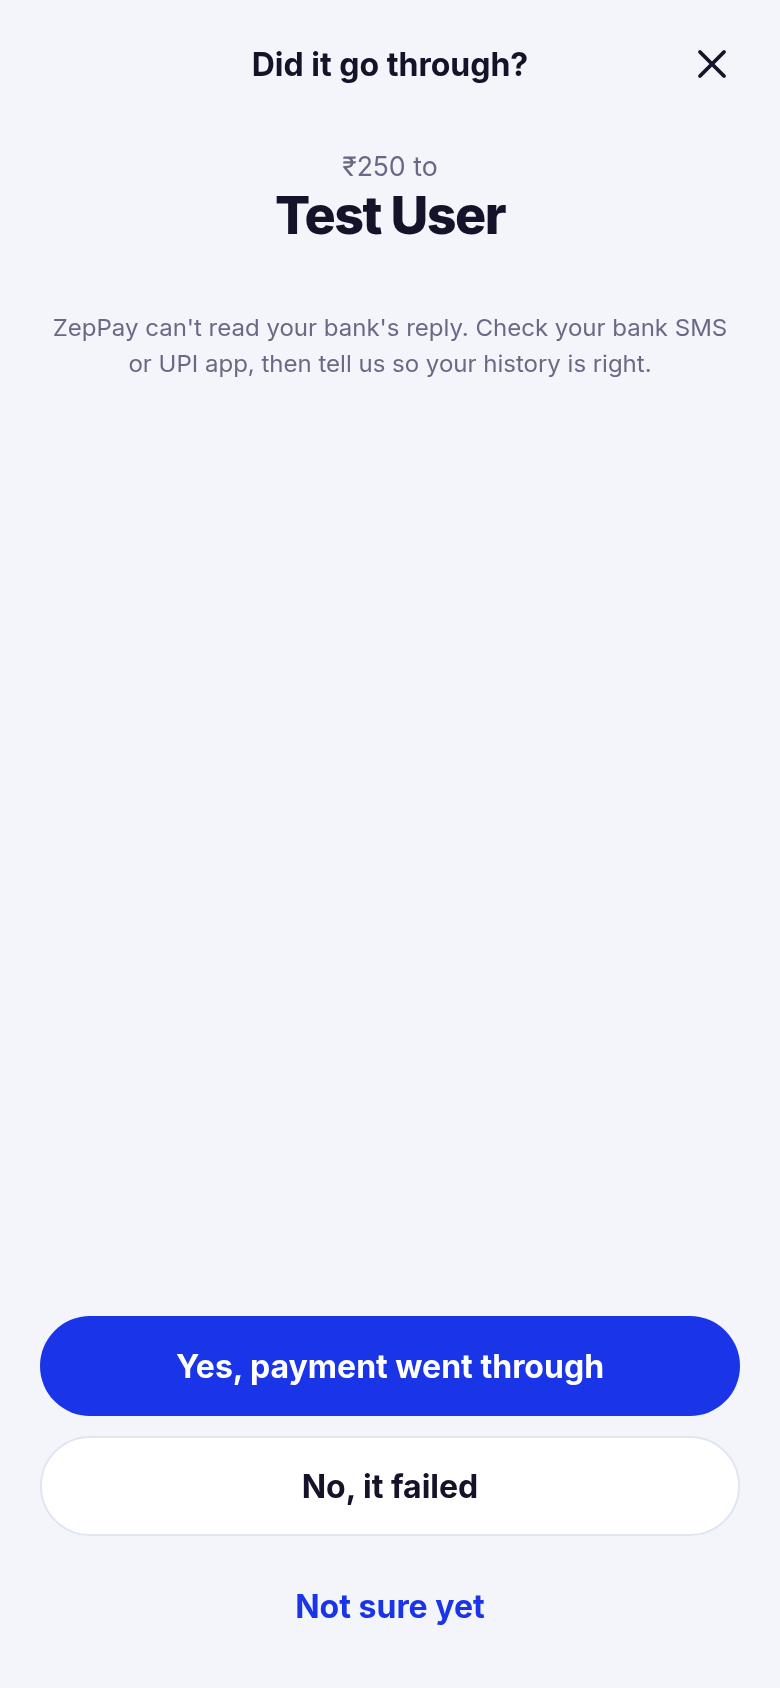
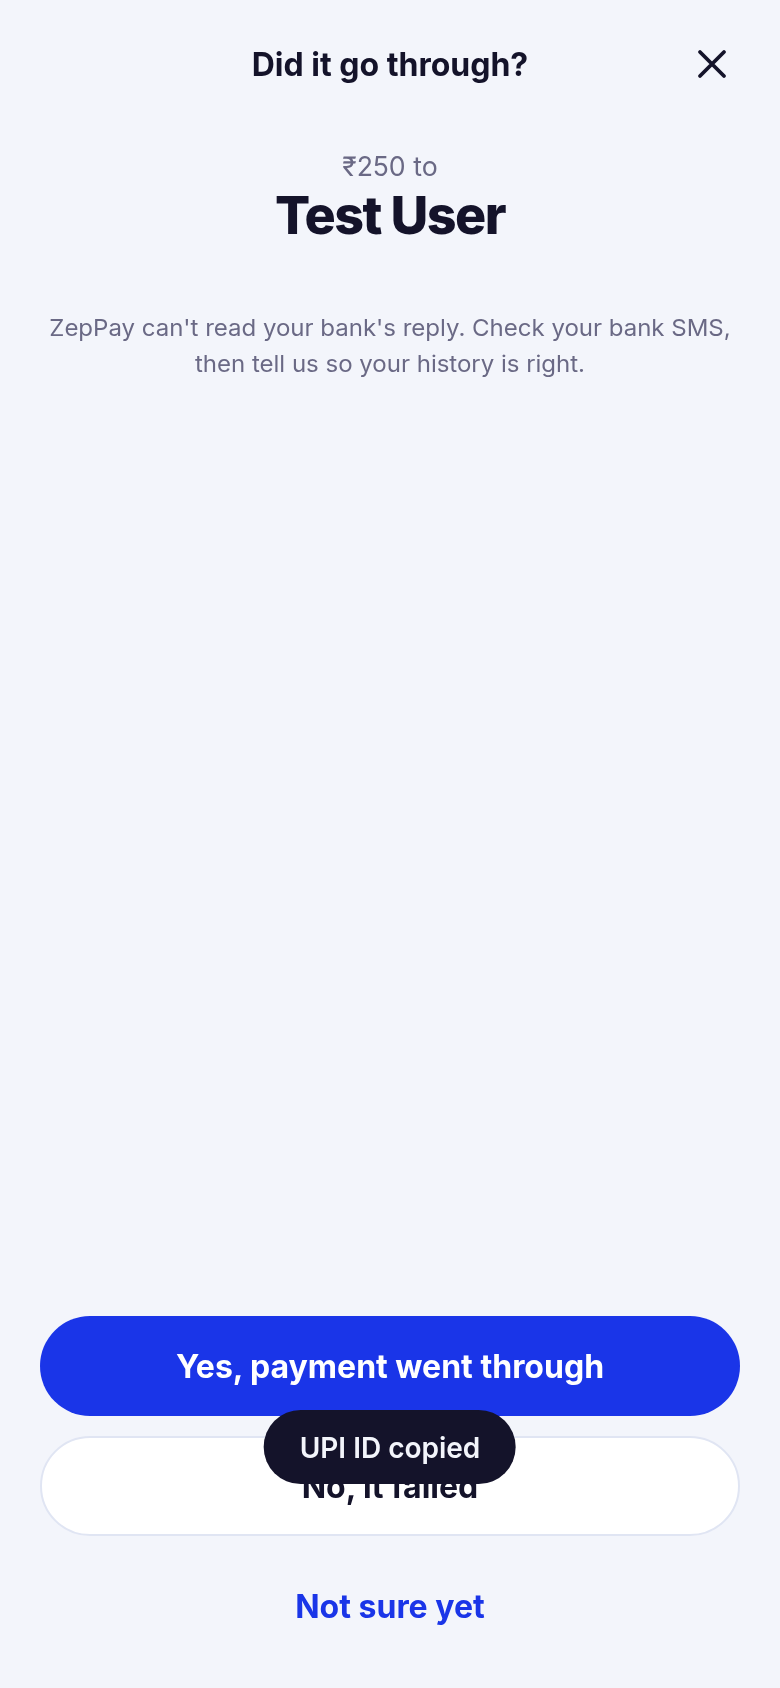
Payments only over *99#

Changed region(s): [[0.0615, 0.1848, 0.9231, 0.2464], [0.3385, 0.8318, 0.6769, 0.8934]]

diff --git a/zeppay-pwa/src/App.jsx b/zeppay-pwa/src/App.jsx
@@ -4,7 +4,7 @@ import * as Ic from './Icons.jsx';
 import logo from './assets/logo.png';
 import { usePersisted } from './store.js';
 import {
-  parseUpi, validateAmount, formatINR, telHref, CARRIERS, carrierSupported, newId, upiLink, initials,
+  parseUpi, validateAmount, formatINR, telHref, CARRIERS, carrierSupported, newId, initials,
   groupByDay, navigate, isValidVpa, isValidMobile, normMobile, USSD_SEND, USSD_MOBILE, USSD_BALANCE, USSD_MENU, MAX_AMOUNT,
 } from './lib.js';
 
@@ -65,7 +65,7 @@ export default function App() {
     return () => removeEventListener('beforeinstallprompt', h);
   }, []);
 
-  // When the user comes back from the dialer / UPI app, ask how it went.
+  // When the user comes back from the dialer, ask how it went.
   useEffect(() => {
     const onVis = () => { if (document.visibilityState === 'visible' && pending) setScreen((s) => (s?.name === 'outcome' ? s : { name: 'outcome', tx: pending })); };
     document.addEventListener('visibilitychange', onVis);
@@ -125,8 +125,8 @@ function Onboarding({ onDone }) {
   const [i, setI] = useState(0);
   const slides = [
     { icon: <Ic.WifiOff width={44} height={44} />, t: 'Pay with no internet', d: 'ZepPay lines up UPI payments over *99#, the service built into your SIM. No Wi-Fi, no mobile data.' },
-    { icon: <Ic.Scan width={44} height={44} />, t: 'Scan, check, pay', d: 'Scan any UPI QR or enter a UPI ID or mobile number. Pay offline through *99#, or open your UPI app when you have data.' },
-    { icon: <Ic.Shield width={44} height={44} />, t: 'Your PIN stays with your bank', d: 'ZepPay never sees or stores your UPI PIN. You enter it in the dialer or your UPI app. History stays on this device.' },
+    { icon: <Ic.Scan width={44} height={44} />, t: 'Scan, check, pay', d: 'Scan any UPI QR or enter a UPI ID or mobile number. ZepPay lines up the payment and your bank completes it over *99#.' },
+    { icon: <Ic.Shield width={44} height={44} />, t: 'Your PIN stays with your bank', d: 'ZepPay never sees or stores your UPI PIN. You enter it in the dialer. History stays on this device.' },
     { icon: <Ic.Wallet width={44} height={44} />, t: 'One-time bank link', d: 'To pay over *99#, your SIM must be linked to your bank once.', steps: true },
   ];
   const s = slides[i], last = i === slides.length - 1;
@@ -175,7 +175,7 @@ function HomeTab({ supported, carrier, history, go, online, installEvt, onInstal
         <span className="netic"><Ic.WifiOff width={22} height={22} /></span>
         <div><b>Works with no data</b><small>Offline payments use *99# on your {CARRIERS.find((c) => c.id === carrier)?.name} SIM. Your bank completes them.</small></div>
       </section>
-      {!supported && <div className="warn" role="alert"><Ic.Info width={20} height={20} /><div><b>Jio doesn't support *99#.</b> You can still pay with your UPI app when you have internet.</div></div>}
+      {!supported && <div className="warn" role="alert"><Ic.Info width={20} height={20} /><div><b>Jio doesn't support *99#.</b> Payments in ZepPay need a *99# supported SIM.</div></div>}
 
       {recents.length > 0 && <>
         <h3 className="sec">Pay again</h3>
@@ -220,7 +220,7 @@ function PayTo({ kind: initial, onClose, onNext }) {
         <input className="field" autoFocus aria-label={kind === 'upi' ? 'UPI ID' : 'Mobile number'} placeholder={kind === 'upi' ? 'name@bank' : '10-digit mobile number'} inputMode={kind === 'upi' ? 'email' : 'numeric'} value={val} onChange={(e) => setVal(e.target.value)} autoCapitalize="off" autoCorrect="off" spellCheck="false" />
         {val && !ok && <p className="err">{kind === 'upi' ? 'Use the format name@bank.' : 'Enter a valid 10-digit Indian mobile number.'}</p>}
         <input className="field" aria-label="Payee name (optional)" placeholder="Name (optional, for your history)" maxLength={40} value={name} onChange={(e) => setName(e.target.value)} />
-        {kind === 'mobile' && <p className="fine left">Mobile payments go through *99# only. The number must be linked to a UPI account. UPI apps need a UPI ID or QR.</p>}
+        {kind === 'mobile' && <p className="fine left">Mobile payments go through *99# only. The number must be linked to a UPI account.</p>}
         <button className="btn primary wide" disabled={!ok} style={{ marginTop: 12 }}>Continue <Ic.Arrow width={20} height={20} /></button>
       </form>
     </div>
@@ -327,44 +327,38 @@ function PayScreen({ payee, supported, onClose, onGo }) {
         <div className="quick">{[100, 500, 1000, 2000].map((v) => <button key={v} onClick={() => setAmount(String(v))}>₹{v.toLocaleString('en-IN')}</button>)}</div>
         {!isMobile && <input className="field" aria-label="Note" placeholder="Add a note (optional)" maxLength={50} value={note} onChange={(e) => setNote(e.target.value)} />}
         <label className="check"><input type="checkbox" checked={confirmed} onChange={(e) => setConfirmed(e.target.checked)} /><span>I've checked this is the right person to pay.</span></label>
-        <p className="fine left">Your bank completes the payment and asks for your UPI PIN. ZepPay never sees it.</p>
+        <p className="fine left">Payments run only over *99#. Your bank asks for your UPI PIN in the dialer. ZepPay never sees it.</p>
       </div>
       <div className="sheet-foot col">
-        {!isMobile && <button className="btn primary wide" disabled={dis} onClick={() => start('app')}>Pay with UPI app {!err && amount ? formatINR(amount) : ''} <Ic.Arrow width={20} height={20} /></button>}
-        <button className={'btn wide ' + (isMobile ? 'primary' : 'ghost')} disabled={dis || !supported} onClick={() => start('ussd')}><Ic.WifiOff width={20} height={20} /> Pay offline with *99#</button>
+        <button className="btn primary wide" disabled={dis || !supported} onClick={() => start('ussd')}><Ic.WifiOff width={20} height={20} /> Pay {!err && amount ? formatINR(amount) : ''} with *99#</button>
         {!supported && <p className="err center">Jio SIMs can't use *99#.</p>}
       </div>
     </div>
   );
 }
 
-/* ---------- Handoff to UPI app / dialer ---------- */
+/* ---------- Handoff to dialer ---------- */
 function Handoff({ tx, route, showToast, onClose, onBack, onLaunch, onPick }) {
-  const isApp = route === 'app';
+  const isApp = false;
   const code = tx.vpa ? USSD_SEND : USSD_MOBILE;
   const target = tx.vpa || tx.mobile;
   const open = async () => {
     onLaunch();
-    if (isApp) { navigate(upiLink({ vpa: tx.vpa, name: tx.name, amount: tx.amount, note: tx.note })); return; }
+    if (isApp) { return; }
     if (await copyText(target)) showToast(tx.vpa ? 'UPI ID copied' : 'Number copied');
     navigate(telHref(code));
   };
   return (
     <div className="sheet session" role="dialog" aria-label="Complete payment">
-      <header className="sheet-top"><button className="icon-btn" onClick={onBack} aria-label="Back"><Ic.Back /></button><b>{isApp ? 'UPI app' : 'Offline *99#'}</b><span style={{ width: 40 }} /></header>
+      <header className="sheet-top"><button className="icon-btn" onClick={onBack} aria-label="Back"><Ic.Back /></button><b>Pay via *99#</b><span style={{ width: 40 }} /></header>
       <div className="sheet-body center">
         <div className="amt-show"><small>to {tx.name || target}</small><div>{formatINR(tx.amount)}</div></div>
         <div className="livebox"><Ic.Phone width={34} height={34} />
-          {isApp ? <>
-            <h2>Finish in your UPI app</h2>
-            <p>Tap below. Your phone lists the UPI apps you have (GPay, PhonePe, Paytm and so on) with the payee and amount filled in. Confirm and enter your PIN there. Needs internet.</p>
-          </> : <>
             <h2>Finish in your dialer</h2>
             <p>ZepPay copies {tx.vpa ? 'the UPI ID' : 'the number'} and opens <code>{code}</code>. In the bank prompts, paste it, enter <b>{formatINR(tx.amount)}</b>, then your UPI PIN. No internet needed.</p>
-          </>}
         </div>
-        <button className="btn primary wide" onClick={open} data-testid="open-handoff"><Ic.Phone width={20} height={20} /> {isApp ? 'Open UPI app' : 'Open dialer'}</button>
-        {!isApp && <button className="btn ghost wide" onClick={async () => showToast((await copyText(target)) ? 'Copied' : 'Copy not available')}><Ic.Copy width={20} height={20} /> Copy {target}</button>}
+        <button className="btn primary wide" onClick={open} data-testid="open-handoff"><Ic.Phone width={20} height={20} /> Open dialer</button>
+        {<button className="btn ghost wide" onClick={async () => showToast((await copyText(target)) ? 'Copied' : 'Copy not available')}><Ic.Copy width={20} height={20} /> Copy {target}</button>}
         <p className="fine">When you come back, ZepPay asks if it worked so your history is accurate. Your bank sends the real confirmation.</p>
       </div>
       <div className="sheet-foot col"><button className="btn ghost wide" data-testid="mark-success" onClick={() => onPick('success')}>It worked</button>
@@ -379,7 +373,7 @@ function Outcome({ tx, onPick, onLater }) {
       <header className="sheet-top"><span style={{ width: 40 }} /><b>Did it go through?</b><button className="icon-btn" onClick={onLater} aria-label="Later"><Ic.Close /></button></header>
       <div className="sheet-body center">
         <div className="amt-show"><small>{formatINR(tx.amount)} to</small><div style={{ fontSize: 26 }}>{tx.name || tx.vpa || tx.mobile}</div></div>
-        <p className="fine">ZepPay can't read your bank's reply. Check your bank SMS or UPI app, then tell us so your history is right.</p>
+        <p className="fine">ZepPay can't read your bank's reply. Check your bank SMS, then tell us so your history is right.</p>
       </div>
       <div className="sheet-foot col">
         <button className="btn primary wide" onClick={() => onPick('success')}>Yes, payment went through</button>
@@ -422,7 +416,7 @@ function Receipt({ tx, onClose, onAgain }) {
           <div className="bal-big">{formatINR(tx.amount)}</div><p>{ok ? 'Paid to' : tx.status === 'failed' ? 'Failed to pay' : 'Not confirmed, to'} <b>{tx.name || tx.vpa || tx.mobile}</b></p></div>
         <dl className="kv">
           <dt>{tx.vpa ? 'UPI ID' : 'Mobile'}</dt><dd>{tx.vpa || tx.mobile}</dd><dt>Date</dt><dd>{when}</dd>
-          <dt>Paid via</dt><dd>{tx.route === 'app' ? 'UPI app' : 'Offline *99#'}</dd>
+          <dt>Paid via</dt><dd>*99#</dd>
           {tx.note && <><dt>Note</dt><dd>{tx.note}</dd></>}
         </dl>
         <p className="fine">Status is what you told ZepPay. Your bank SMS is the official record.</p>
@@ -444,7 +438,7 @@ function HistoryTab({ history, go }) {
             <ul className="list">{g.items.map((t) => (
               <li key={t.id}><button onClick={() => go({ name: 'receipt', tx: t })} className="tx">
                 <Avatar name={label(t)} />
-                <span className="tx-m"><b>{t.name || label(t).split('@')[0]}</b><small>{new Date(t.at).toLocaleTimeString('en-IN', { hour: 'numeric', minute: '2-digit' })} · {t.route === 'app' ? 'UPI app' : '*99#'}</small></span>
+                <span className="tx-m"><b>{t.name || label(t).split('@')[0]}</b><small>{new Date(t.at).toLocaleTimeString('en-IN', { hour: 'numeric', minute: '2-digit' })} · *99#</small></span>
                 <span className={'tx-a ' + t.status}>{formatINR(t.amount)}<small>{statusText(t.status)}</small></span>
               </button></li>))}</ul></section>))}
     </main>
@@ -465,11 +459,11 @@ function BankGuide({ onClose }) {
   );
 }
 const FAQ = [
-  ['Does ZepPay move money itself?', 'No. ZepPay lines up the payment. Your bank completes it, either through *99# on your SIM or in your UPI app. ZepPay never sees your UPI PIN.'],
-  ['Which SIMs work?', 'Airtel, Vi and BSNL support *99#. Jio does not. With a Jio SIM, use "Pay with UPI app" when you have internet.'],
-  ['What are the limits?', '*99# allows ₹1 to ₹5,000 per payment, and a daily cap set by your bank. UPI apps have their own limits.'],
-  ['Why does it ask if my payment worked?', 'A web app cannot read the bank reply from the dialer or UPI app. You tell ZepPay, and it saves that to your history on this device.'],
-  ['Can I pay a mobile number?', 'Yes, over *99# only (it uses the "send to mobile number" option). The number must have a UPI account.'],
+  ['Does ZepPay move money itself?', 'No. ZepPay lines up the payment. Your bank completes it, through *99# on your SIM. ZepPay never sees your UPI PIN.'],
+  ['Which SIMs work?', 'Airtel, Vi and BSNL support *99#. Jio does not, so ZepPay cannot pay on a Jio SIM.'],
+  ['What are the limits?', '*99# allows ₹1 to ₹5,000 per payment, and a daily cap set by your bank. '],
+  ['Why does it ask if my payment worked?', 'A web app cannot read the bank reply from the dialer. You tell ZepPay, and it saves that to your history on this device.'],
+  ['Can I pay a mobile number?', 'Yes, it uses the *99# "send to mobile number" option. The number must have a UPI account.'],
   ['Does it work without internet?', 'Yes. After the first load the app opens offline. Offline payments run through your SIM and need voice signal, not data.'],
   ['Where is my data?', 'Only on this device. No accounts, no analytics, no servers. Clearing site data erases your history.'],
 ];
@@ -482,7 +476,7 @@ function HelpTab({ go }) {
       <ol className="steps">
         <li><span><b>Link your bank once.</b> Dial <code>{USSD_MENU}</code> and follow the prompts.</span></li>
         <li><span><b>Scan a UPI QR</b> or enter a UPI ID or mobile number.</span></li>
-        <li><span><b>Check the payee and amount.</b> Pick offline <code>*99#</code> or your UPI app.</span></li>
+        <li><span><b>Check the payee and amount.</b> ZepPay opens <code>*99#</code> in your dialer.</span></li>
         <li><span><b>Enter your UPI PIN</b> in the bank prompt. Come back and confirm.</span></li>
       </ol>
       <button className="rowbtn guide" onClick={() => go({ name: 'bankguide' })}><Ic.Shield width={20} height={20} /> Bank-link walkthrough</button>

diff --git a/zeppay-pwa/README.md b/zeppay-pwa/README.md
@@ -1,6 +1,6 @@
 # ZepPay web app
 
-Offline UPI payments over `*99#`, as an installable web app (PWA). It lines up the payment and hands it to your bank: either the `*99#` service on your SIM (no internet) or your UPI app (GPay, PhonePe, Paytm and so on). The payment itself is always completed by your bank.
+Offline UPI payments over `*99#`, as an installable web app (PWA). It lines up the payment and hands it to your bank: the `*99#` service on your SIM (no internet needed). The payment itself is always completed by your bank.
 
 Live (after merge to `main`): https://mananbharti.github.io/zeppay/ios/
 Preview build: https://mananbharti.github.io/zeppay-pwa/
@@ -24,15 +24,15 @@ Preview build: https://mananbharti.github.io/zeppay-pwa/
 - **Scan QR to pay**: live camera scan, upload a QR image, or paste a UPI ID or `upi://` link
 - **Pay to a UPI ID or a mobile number**
 - **Pay with your UPI app**: opens a real `upi://pay` link with payee, name, amount and note filled in. You confirm and enter your PIN in the UPI app
-- **Pay offline with `*99#`**: copies the UPI ID or number, then opens your dialer with `*99*1*3#` (UPI ID) or `*99*1*1#` (mobile number). No data needed
+- **Pay over `*99#`** (the only payment route): copies the UPI ID or number, then opens your dialer with `*99*1*3#` (UPI ID) or `*99*1*1#` (mobile number). No data needed
 - **Check balance**: opens `*99*3#`
-- **History**: every payment you start, saved on the device. When you return from the dialer or UPI app, ZepPay asks if it went through
+- **History**: every payment you start, saved on the device. When you return from the dialer, ZepPay asks if it went through
 - **Help and FAQ**, install to home screen, Auto / Light / Dark theme, carrier picker (Jio doesn't support `*99#`, so offline payments are switched off for it)
 - Works offline once loaded
 
 ## What ZepPay can and can't do
 
-A web page can't move money or read your bank's reply. So ZepPay never claims a payment succeeded: the status in History is what you confirm. Your UPI PIN is entered in the dialer or UPI app only. ZepPay never sees or stores it. Everything is kept in `localStorage` on your device. No analytics, no accounts, no servers.
+A web page can't move money or read your bank's reply. So ZepPay never claims a payment succeeded: the status in History is what you confirm. Your UPI PIN is entered in the dialer only. ZepPay never sees or stores it. Everything is kept in `localStorage` on your device. No analytics, no accounts, no servers.
 
 ## Run it
 
